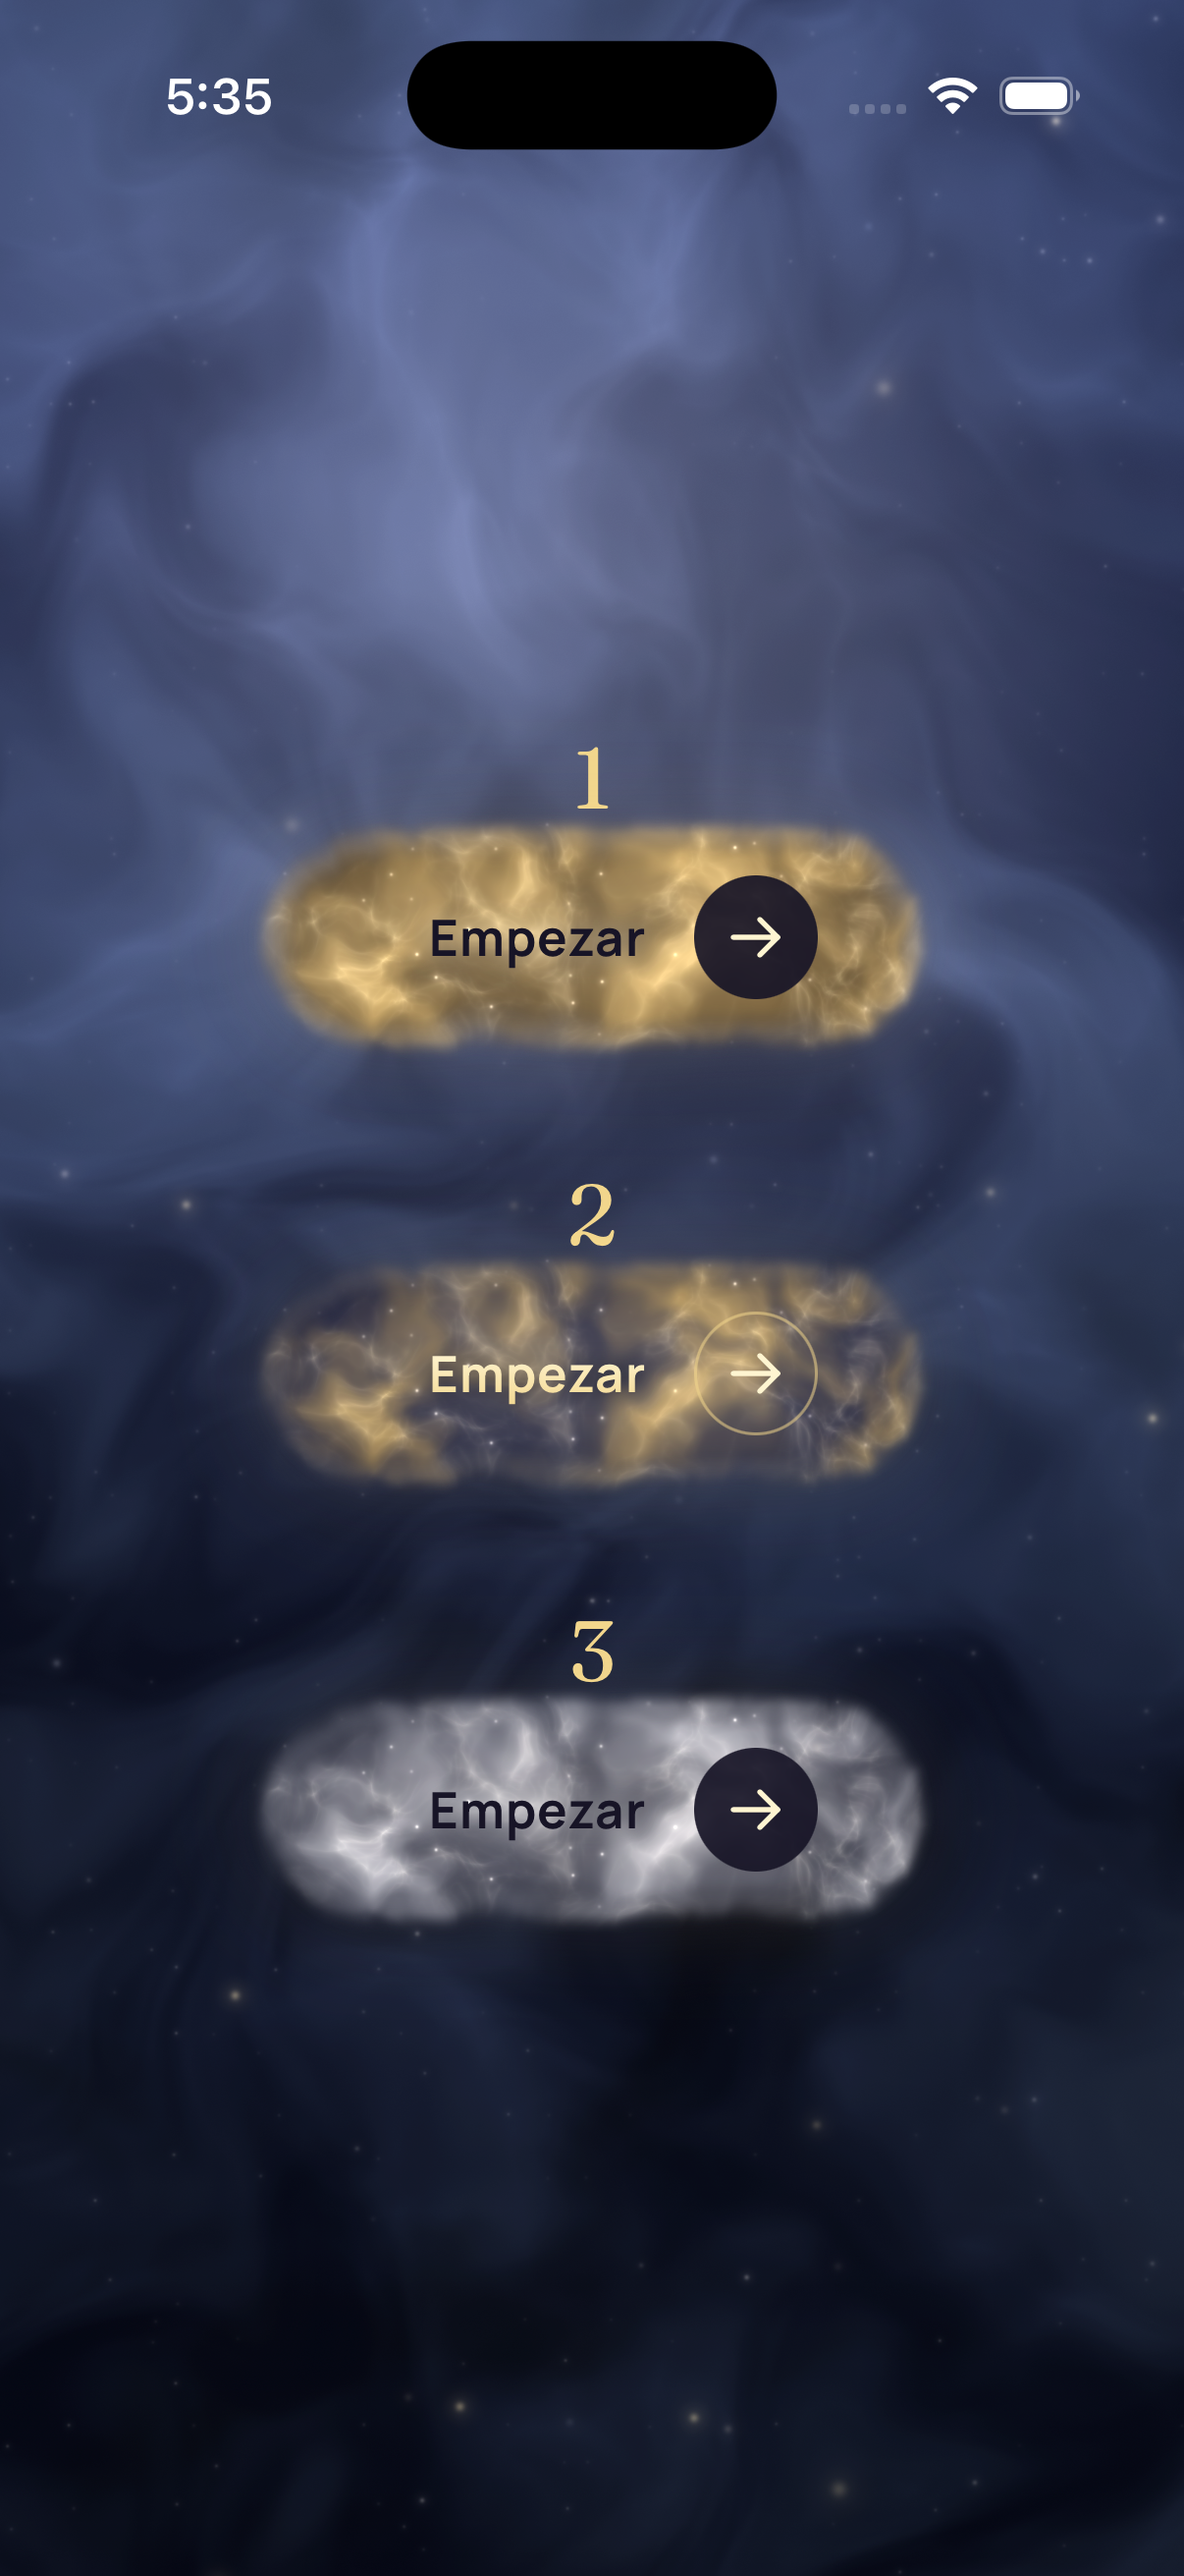
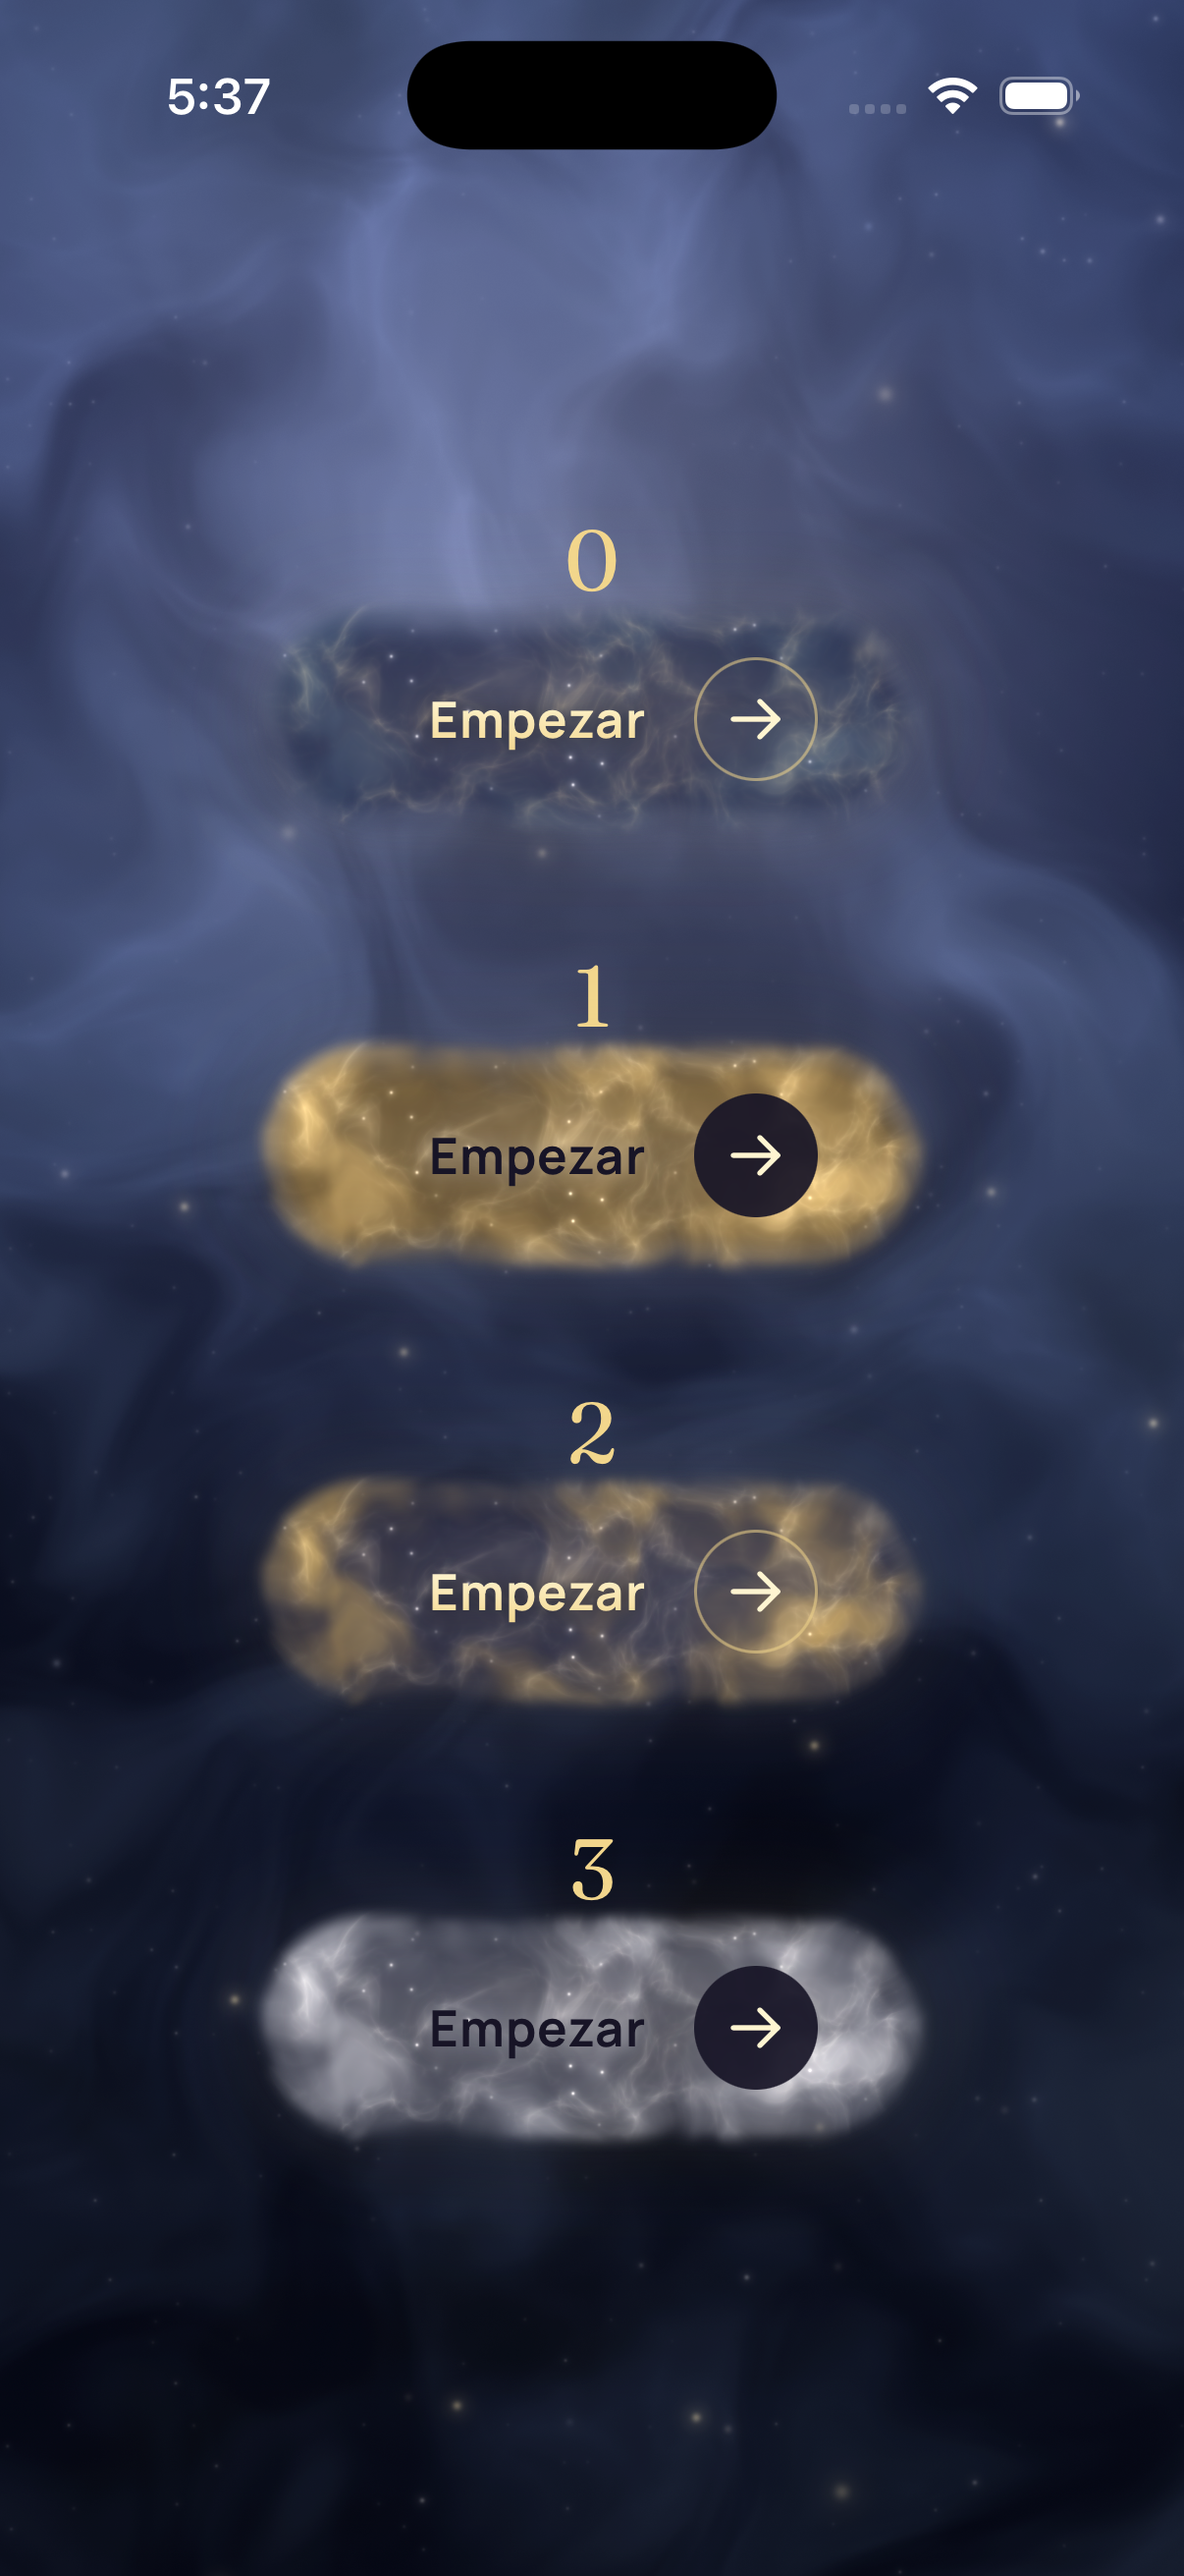
Botón principal: solo la palabra dentro de un borde de galaxia con los colores del cielo
Sin flecha. Anillo de gas y estrellas que fluye alrededor (shader galaxiaBorde),
con los colores de la nebulosa de cada persona y vidrio oscuro leve dentro.

Changed region(s): [[0.2148, 0.1854, 0.7977, 0.8341], [0.1841, 0.0309, 0.2454, 0.0618]]

diff --git a/ZENO/Pantallas/Registro.swift b/ZENO/Pantallas/Registro.swift
@@ -1,4 +1,5 @@
 import SwiftUI
+import simd
 
 /// Los pasos del registro, en orden. Una sola cosa por pantalla.
 enum PasoDeRegistro: Int, Comparable {
@@ -301,14 +302,33 @@ private struct CuerpoDeLuz: View {
     let compacto: Bool
     let variante: Int
     let paleta: Int
+    @Environment(\.cieloDeZeno) private var cielo
     @Environment(\.accessibilityReduceMotion) private var reducirMovimiento
     @Environment(\.isEnabled) private var activo
     @State private var ondas = 0
     @State private var respira = false
 
     private var esOro: Bool { variante == 1 }
-    /// Letra oscura cuando el fondo es claro (oro macizo, nebulosa de oro o de luna).
-    private var letraOscura: Bool { esOro || (variante == 3 && (paleta == 1 || paleta == 3)) }
+    /// La galaxia (estilo 3) va sin flecha: solo la palabra (pedido de Diaz).
+    private var conFlecha: Bool { variante != 3 }
+
+    /// Paleta 0: los colores de la nebulosa de la persona (elección de Diaz). 1–3 quedan para comparar.
+    private var colores: (hondo: SIMD3<Float>, nube: SIMD3<Float>, oro: SIMD3<Float>) {
+        switch paleta {
+        case 1: return (SIMD3(0.36, 0.26, 0.10), SIMD3(0.86, 0.70, 0.40), SIMD3(1.0, 0.95, 0.80))
+        case 2: return (SIMD3(0.08, 0.09, 0.20), SIMD3(0.72, 0.58, 0.32), SIMD3(1.0, 0.92, 0.72))
+        case 3: return (SIMD3(0.22, 0.23, 0.30), SIMD3(0.78, 0.78, 0.82), SIMD3(1.0, 0.95, 0.85))
+        default:
+            guard let cielo else {
+                return (SIMD3(0.11, 0.14, 0.32), SIMD3(0.24, 0.29, 0.58), SIMD3(0.95, 0.84, 0.55))
+            }
+            // Como se ve el cielo de verdad: la nube, iluminada por el resplandor que rodea a Lumi.
+            let nube = simd_mix(cielo.colorNube, cielo.colorBrasa, SIMD3(repeating: 0.35)) * 1.12
+            return (cielo.colorNube * 0.62, nube, simd_mix(cielo.colorBrasa, cielo.colorOro, SIMD3(repeating: 0.5)))
+        }
+    }
+    /// Letra oscura solo sobre el oro macizo; en la galaxia el interior es vidrio oscuro.
+    private var letraOscura: Bool { esOro }
 
     var body: some View {
         let presionado = configuration.isPressed
@@ -322,7 +342,8 @@ private struct CuerpoDeLuz: View {
                                        : AnyShapeStyle(LinearGradient(colors: [.oroClaro, .oroZeno],
                                                                       startPoint: .top, endPoint: .bottom)))
                 .shadow(color: letraOscura ? .white.opacity(0.35) : .black.opacity(0.5), radius: 4)
-                .padding(.leading, compacto ? 18 : 26)
+                .padding(.leading, conFlecha ? (compacto ? 18 : 26) : 0)
+            if conFlecha {
             ZStack {
                 // La onda: un anillo de luz que sale del círculo, como cuando Lumi celebra.
                 Circle()
@@ -352,8 +373,29 @@ private struct CuerpoDeLuz: View {
             .frame(width: circulo, height: circulo)
             .offset(x: presionado && !reducirMovimiento ? 3 : 0)
             .padding(.trailing, 5)
+            }
         }
-        .frame(minWidth: compacto ? nil : 190, minHeight: alto)
+        .padding(.horizontal, conFlecha ? 0 : (compacto ? 26 : 40))
+        // Sin flecha, la onda sale de toda la palabra.
+        .background {
+            if !conFlecha {
+                Capsule()
+                    .stroke(Color.oroClaro, lineWidth: 1.2)
+                    .keyframeAnimator(initialValue: OndaDeBoton(), trigger: ondas) { vista, v in
+                        vista.scaleEffect(x: 1 + (v.escala - 1) * 0.18, y: 1 + (v.escala - 1) * 0.6).opacity(v.opacidad)
+                    } keyframes: { _ in
+                        KeyframeTrack(\.escala) {
+                            CubicKeyframe(1.0, duration: 0.01)
+                            CubicKeyframe(2.4, duration: 0.8)
+                        }
+                        KeyframeTrack(\.opacidad) {
+                            CubicKeyframe(0.7, duration: 0.01)
+                            CubicKeyframe(0, duration: 0.8)
+                        }
+                    }
+            }
+        }
+        .frame(minWidth: compacto ? nil : (conFlecha ? 190 : 170), minHeight: alto)
         .background { fondo(presionado: presionado) }
         .scaleEffect(presionado ? 0.975 : 1)
         .opacity(activo ? 1 : 0.4)
@@ -393,15 +435,17 @@ private struct CuerpoDeLuz: View {
             TimelineView(.animation(minimumInterval: 1.0 / 30.0, paused: reducirMovimiento)) { linea in
                 GeometryReader { geo in
                     Rectangle()
-                        .colorEffect(ShaderLibrary.nebulosaBoton(
+                        .colorEffect(ShaderLibrary.galaxiaBorde(
                             .float2(geo.size),
                             .float(linea.date.timeIntervalSinceReferenceDate.truncatingRemainder(dividingBy: 1000)),
                             .float(presionado ? 1 : (respira ? 0.55 : 0.15)),
-                            .float(Double(paleta))))
+                            .float3(colores.hondo.x, colores.hondo.y, colores.hondo.z),
+                            .float3(colores.nube.x, colores.nube.y, colores.nube.z),
+                            .float3(colores.oro.x, colores.oro.y, colores.oro.z)))
                 }
             }
-            .padding(.horizontal, compacto ? -16 : -24)
-            .padding(.vertical, compacto ? -12 : -18)
+            .padding(.horizontal, compacto ? -14 : -20)
+            .padding(.vertical, compacto ? -12 : -16)
             .shadow(color: Color.oroZeno.opacity(presionado ? 0.35 : (respira ? 0.18 : 0.08)), radius: 18)
             .allowsHitTesting(false)
 
@@ -570,5 +614,19 @@ struct ElipseDesdeArriba: Shape {
             if i == 0 { p.move(to: punto) } else { p.addLine(to: punto) }
         }
         return p
+    }
+}
+
+// MARK: - El cielo de la persona, al alcance de los botones
+
+private struct ClaveCieloDeZeno: EnvironmentKey {
+    static let defaultValue: AparienciaLumi? = nil
+}
+
+extension EnvironmentValues {
+    /// La apariencia del cielo actual: el botón nebulosa usa sus mismos colores.
+    var cieloDeZeno: AparienciaLumi? {
+        get { self[ClaveCieloDeZeno.self] }
+        set { self[ClaveCieloDeZeno.self] = newValue }
     }
 }

diff --git a/ZENO/Pantallas/UniversoView.swift b/ZENO/Pantallas/UniversoView.swift
@@ -174,6 +174,7 @@ struct UniversoView: View {
                     .transition(.opacity)
             }
         }
+        .environment(\.cieloDeZeno, apariencia)
         .sensoryFeedback(.impact(weight: .medium, intensity: 0.7), trigger: nacimientos)
         .sensoryFeedback(.impact(weight: .light, intensity: 0.6), trigger: momento)
         .onChange(of: paso) { _, nuevo in
@@ -439,8 +440,8 @@ struct GaleriaDeBotones: View {
     var body: some View {
         VStack(spacing: 34) {
             Spacer()
-            // Colores de la nebulosa: 1 oro · 2 oro sobre noche · 3 luz de luna.
-            ForEach(1...3, id: \.self) { n in
+            // Colores de la nebulosa: 0 el cielo de la persona · 1 oro · 2 oro sobre noche · 3 luz de luna.
+            ForEach(0...3, id: \.self) { n in
                 VStack(spacing: 10) {
                     Text(verbatim: "\(n)")
                         .font(.zenoTitulo(.title, .regular))

diff --git a/CLAUDE.md b/CLAUDE.md
@@ -23,7 +23,7 @@ La especificación completa está en `ZENO_SPEC.md`. Léela antes de cambiar alg
 - Botones y campos usan `.cristal()` (vidrio oscuro con borde de luz dorada) y `EstiloPresion`; nunca grises planos de sistema. Íconos dibujados a mano (`IconoOrbita`), sin SF Symbols genéricos.
 - Texto sobre el cielo: títulos con `.luminoso()` (marfil→oro, sombra y halo), etiquetas `Etiqueta` en mayúsculas doradas, y un velo oscuro suave bajo Lumi. Acciones secundarias con `BotonSecundario`; listas con filas de cristal, nunca `List` de sistema; interruptores con `InterruptorZeno`.
 - Navegación (inspirada en un video de referencia que mandó Diaz): `BarraZeno` flotante abajo con glifos propios (`GlifoView`: hoy, tareas, ajustes, más) y la página activa encendida en oro. Tareas y Ajustes son **páginas dentro del universo, no hojas de sistema**: Lumi viaja arriba y se hace pequeña (`Pagina`). Todo entra y sale con `.transition(.desenfoque)` y `.aparece(n)` escalonado; nunca cortes ni hojas grises.
-- Botón principal (`BotonZeno`, elección de Diaz 14 nov 2026): **nebulosa** (`estiloBoton` 3, shader `nebulosaBoton`): un trozo del cielo con gas azul, hilos de oro, bordes de nube sin contorno y una luz tibia que respira; al tocar se aviva y suelta una onda. Los estilos 1 (oro) y 2 (cristal) quedan en el código; galería con `-galeriaBotones YES` (DEBUG). Descartados: píldora dorada a todo lo ancho, órbita alrededor, forma de cometa, luz girando por el borde. Hoy no escribe la energía en ningún texto.
+- Botón principal (`BotonZeno`, elección de Diaz 14 nov 2026): solo la palabra (sin flecha) dentro de un **borde de galaxia** (`estiloBoton` 3, shader `galaxiaBorde`): anillo de gas y estrellas que gira despacio, con los **mismos colores de la nebulosa de la persona** (`colorNebulosaBoton` 0, vía `\.cieloDeZeno`); dentro, vidrio oscuro leve. Respira y al tocar se aviva y suelta una onda. Estilos 1 (oro) y 2 (cristal) y paletas 1–3 quedan para comparar con `-galeriaBotones YES` (DEBUG). Descartados: píldora dorada a todo lo ancho, órbita alrededor, forma de cometa, luz girando por el borde, nebulosa rellena. Hoy no escribe la energía en ningún texto.
 - La pantalla de hoy no debe verse vacía: `EncabezadoDeHoy` (saludo + nombre; la energía solo se ve en la luz) y `TarjetaDeHoy` (hechas hoy, minutos en foco, mejor hora). Solo datos de progreso, nunca pendientes ni deuda.
 - Los controles de prueba solo aparecen con Ajustes → Modo de prueba (solo en DEBUG).
 - Tipografías propias incluidas en `ZENO/Fuentes` (Google Fonts, licencia OFL en `Licencias/`): **Fraunces** para títulos (`Font.zenoTitulo`, con `cursiva:`), **Manrope** para texto (`Font.zenoTexto`), **Bebas Neue** para el logotipo (`Font.zenoMarca`). Decisión de Diaz; no volver a letras de sistema.
